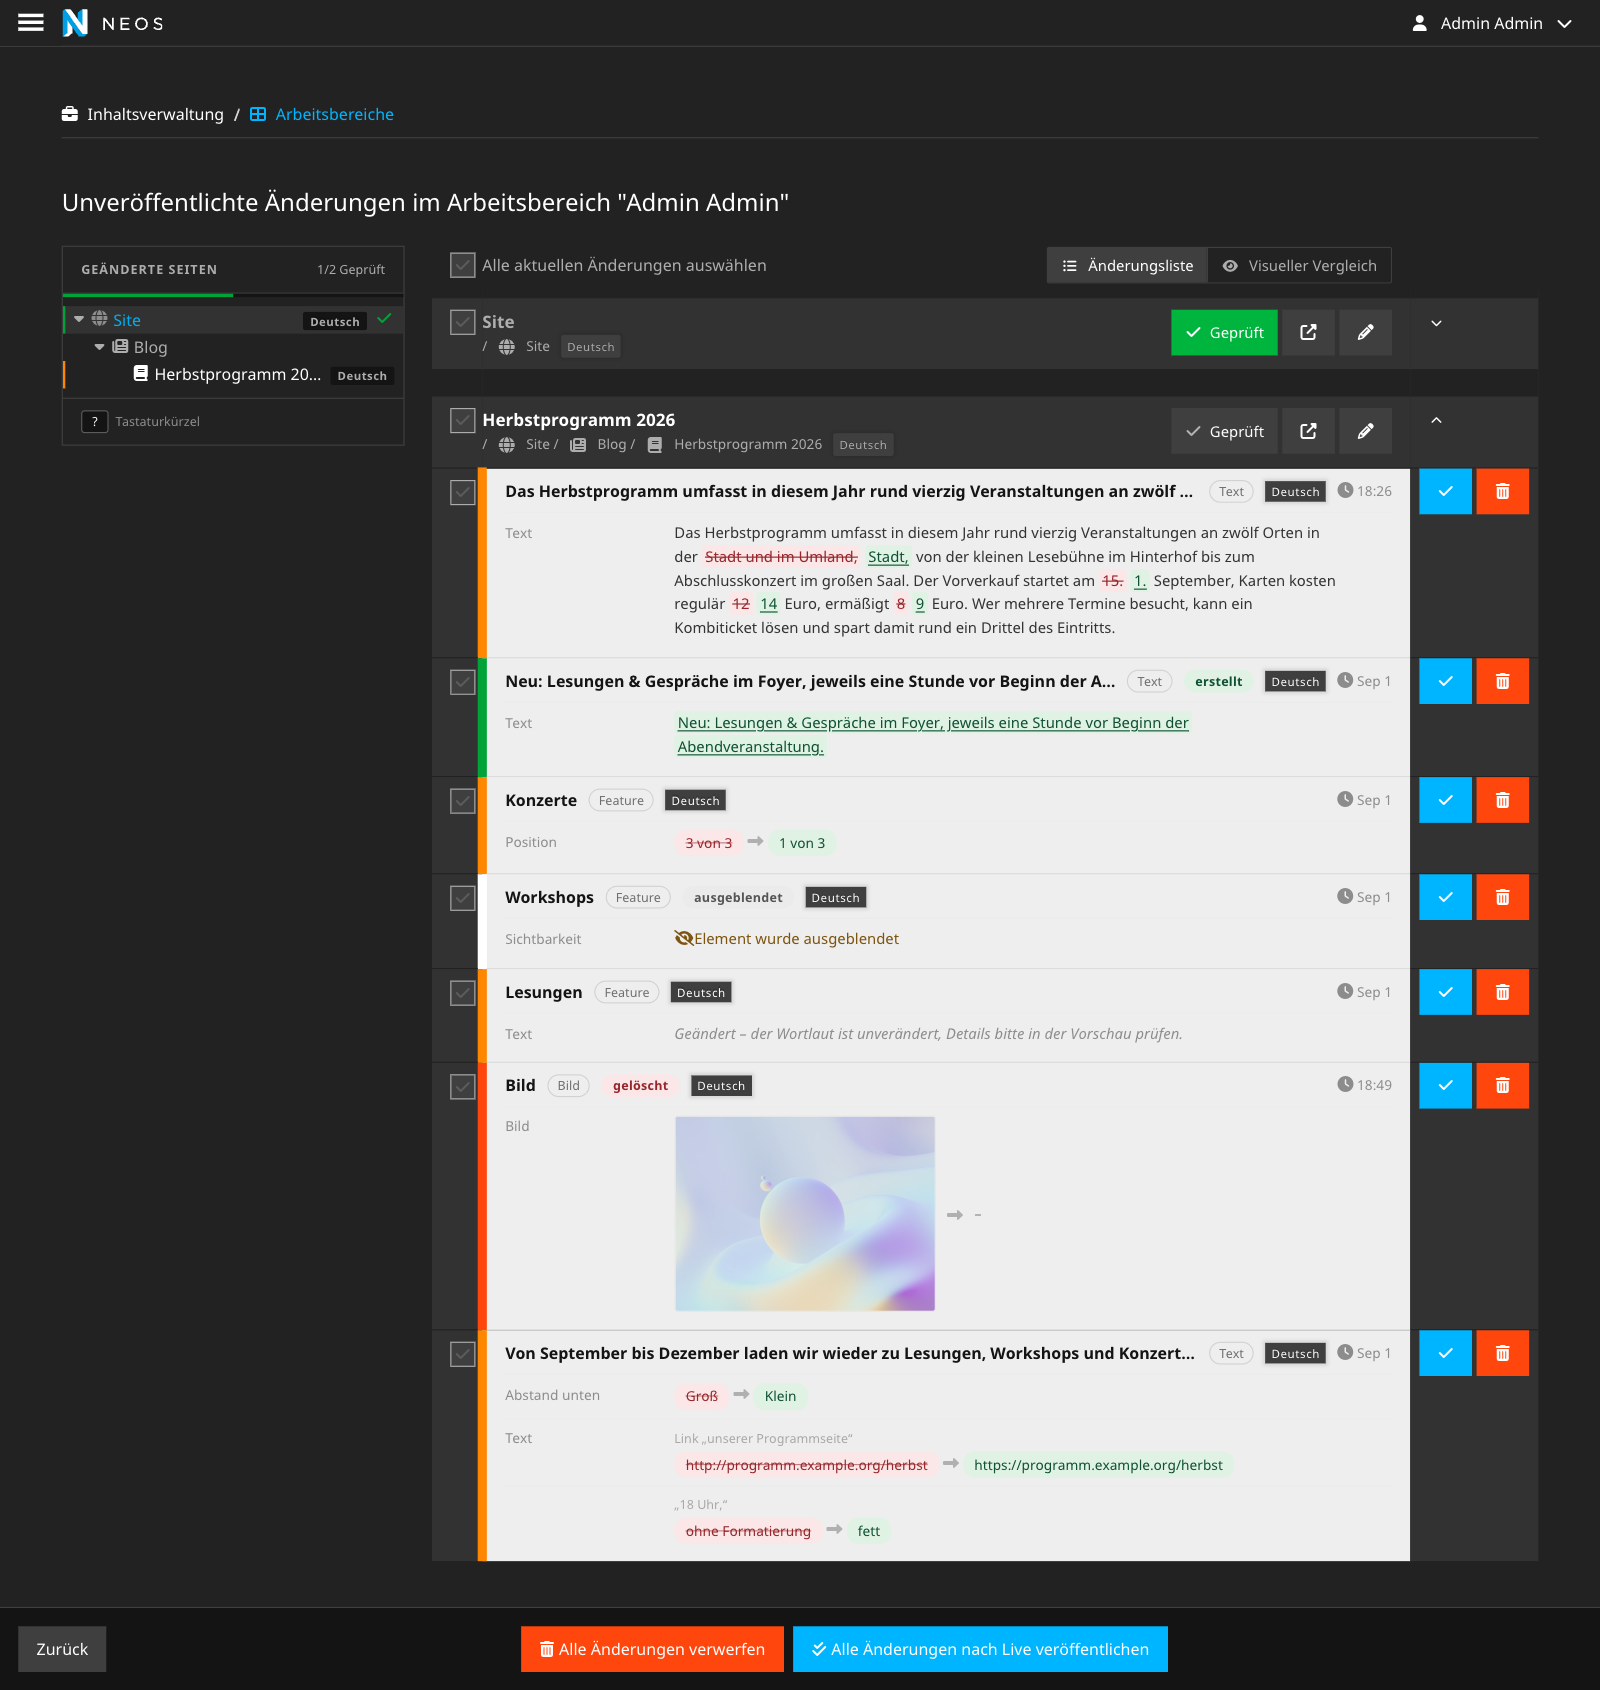
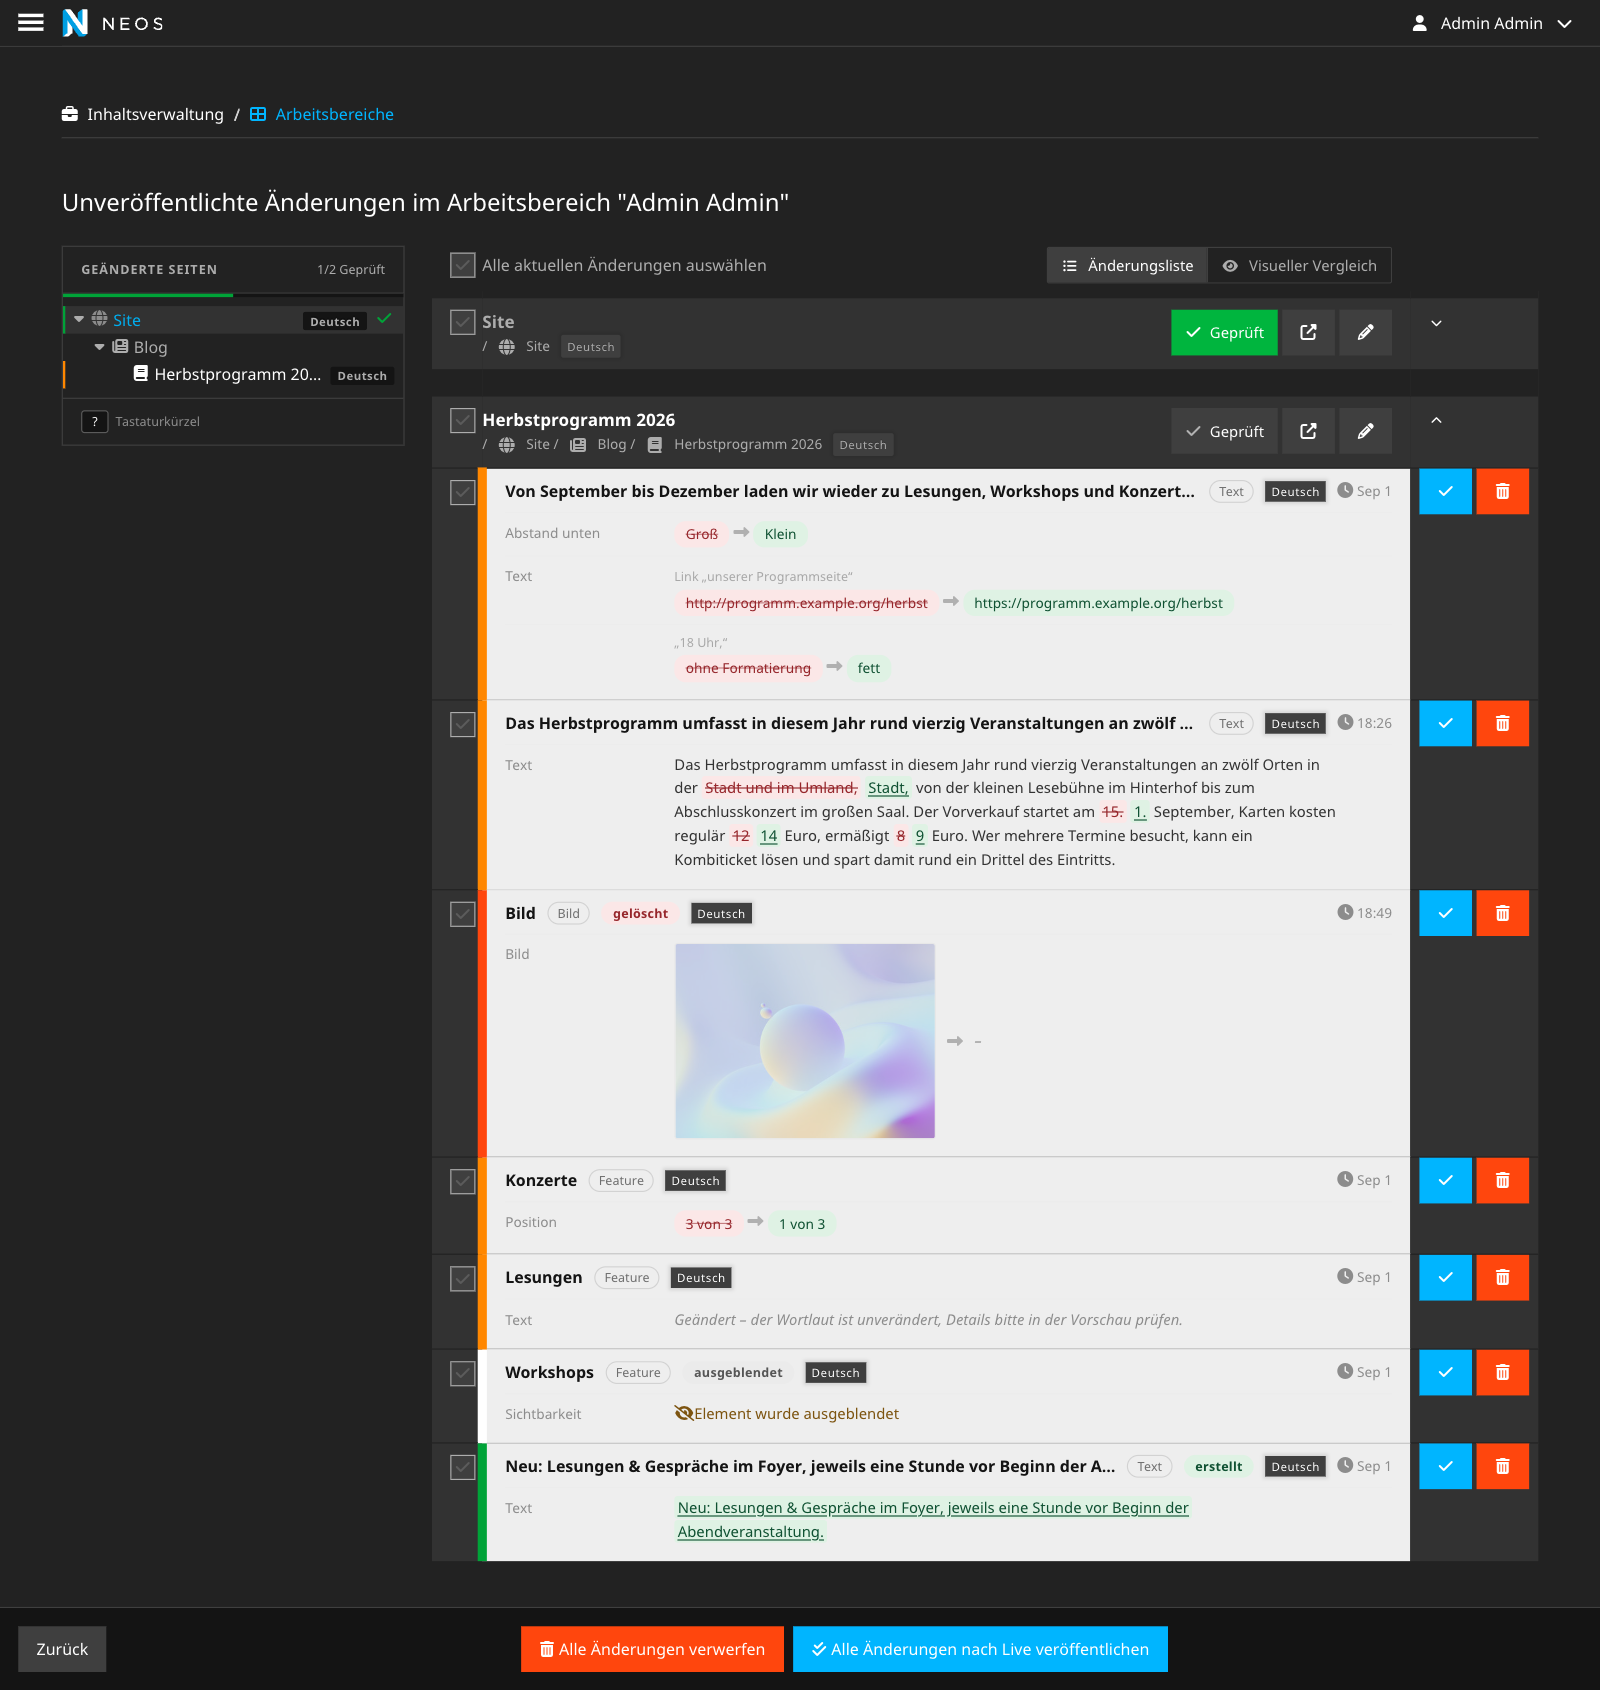
TASK: List the changes of a page in page order
The core lists a document's changes as the repository returns them,
which is roughly the order they were made in, so the first element on a
page could appear last in the review. The changes now follow the page:
sorted by the sorting indices from the document down to the node, with
a container ahead of the elements inside it.

diff --git a/Classes/Controller/Module/Management/WorkspacesController.php b/Classes/Controller/Module/Management/WorkspacesController.php
@@ -164,7 +164,8 @@ class WorkspacesController extends NeosWorkspacesController
     /**
      * Adds, on top of the site changes computed by the core controller, the
      * URIs the visual compare renders each document from and a "pages" list
-     * per dimension that orders the changed documents like the page tree.
+     * per dimension that orders the changed documents like the page tree, and
+     * puts the changes of each document into page order.
      *
      * @param Workspace $selectedWorkspace
      * @return array
@@ -175,6 +176,7 @@ class WorkspacesController extends NeosWorkspacesController
         foreach ($siteChanges as $siteKey => $site) {
             foreach ($site['documents'] as $dimension => $documents) {
                 foreach ($documents as $documentPath => $document) {
+                    $document['changes'] = $this->sortChangesInPageOrder($document['changes'] ?? [], $document['documentNode']);
                     $documents[$documentPath] = $this->addPreviewUris($document);
                 }
                 $siteChanges[$siteKey]['documents'][$dimension] = $documents;
@@ -182,6 +184,62 @@ class WorkspacesController extends NeosWorkspacesController
             }
         }
         return $siteChanges;
+    }
+
+    /**
+     * The core lists the changes of a document in the order the repository
+     * returns them, which is roughly the order they were made in. Reviewers
+     * read a page top to bottom, so the changes follow the page instead:
+     * sorted by the sorting indices from the document down to the node, an
+     * ancestor ahead of its descendants. Keys (relative paths) are kept.
+     *
+     * @param array<string, array> $changes
+     */
+    protected function sortChangesInPageOrder(array $changes, NodeInterface $documentNode): array
+    {
+        $positions = [];
+        foreach ($changes as $relativePath => $change) {
+            $positions[$relativePath] = $this->pagePositionOf($change['node'], $documentNode);
+        }
+        uksort($changes, function ($a, $b) use ($positions): int {
+            return $this->comparePagePositions($positions[$a], $positions[$b]) ?: strcmp((string)$a, (string)$b);
+        });
+        return $changes;
+    }
+
+    /**
+     * Lexicographic comparison of two index lists. PHP's own array comparison
+     * ranks by length first, which would put a deep element behind every
+     * shallow one instead of below its own container.
+     *
+     * @param int[] $a
+     * @param int[] $b
+     */
+    protected function comparePagePositions(array $a, array $b): int
+    {
+        $length = min(count($a), count($b));
+        for ($i = 0; $i < $length; $i++) {
+            if ($a[$i] !== $b[$i]) {
+                return $a[$i] <=> $b[$i];
+            }
+        }
+        return count($a) <=> count($b);
+    }
+
+    /**
+     * The sorting indices of the nodes between the document and the given
+     * node, top-down; comparing two such lists element by element yields the
+     * order in which the nodes appear on the page.
+     *
+     * @return int[]
+     */
+    protected function pagePositionOf(NodeInterface $node, NodeInterface $documentNode): array
+    {
+        $indices = [];
+        for ($current = $node; $current !== null && $current->getPath() !== $documentNode->getPath(); $current = $current->getParent()) {
+            $indices[] = $current->getIndex();
+        }
+        return array_reverse($indices);
     }
 
     /**

diff --git a/Tests/Unit/Controller/Module/Management/WorkspacesControllerTest.php b/Tests/Unit/Controller/Module/Management/WorkspacesControllerTest.php
@@ -662,6 +662,42 @@ class WorkspacesControllerTest extends UnitTestCase
     }
 
     /**
+     * Changes are listed as their elements follow on the page: by sorting
+     * index below the document, a container ahead of the elements inside it,
+     * regardless of the order the repository returned them in.
+     *
+     * @test
+     */
+    public function sortChangesInPageOrderFollowsTheSortingIndicesBelowTheDocument(): void
+    {
+        $document = $this->createPositionedNode('/sites/site/page', 0, null);
+        $main = $this->createPositionedNode('/sites/site/page/main', 100, $document);
+        $first = $this->createPositionedNode('/sites/site/page/main/first', 100, $main);
+        $container = $this->createPositionedNode('/sites/site/page/main/container', 200, $main);
+        $inner = $this->createPositionedNode('/sites/site/page/main/container/items/inner', 100, $this->createPositionedNode('/sites/site/page/main/container/items', 100, $container));
+        $last = $this->createPositionedNode('/sites/site/page/main/last', 300, $main);
+        $changes = [
+            'main/last' => ['node' => $last],
+            'main/container/items/inner' => ['node' => $inner],
+            'main/first' => ['node' => $first],
+            'main/container' => ['node' => $container],
+        ];
+
+        $sorted = $this->createController(null)->sortChangesInPageOrderForTest($changes, $document);
+
+        self::assertSame(['main/first', 'main/container', 'main/container/items/inner', 'main/last'], array_keys($sorted));
+    }
+
+    private function createPositionedNode(string $path, int $index, ?NodeInterface $parent): NodeInterface
+    {
+        $node = $this->createMock(NodeInterface::class);
+        $node->method('getPath')->willReturn($path);
+        $node->method('getIndex')->willReturn($index);
+        $node->method('getParent')->willReturn($parent);
+        return $node;
+    }
+
+    /**
      * The sidebar shows the changed pages as a tree: the unchanged "blog" page
      * between the site and its changed post is listed as an ancestor, and a
      * post follows its parent even when a sibling like "blog-archive" sorts
@@ -906,6 +942,11 @@ class WorkspacesControllerTest extends UnitTestCase
             public function renderContentChangesForTest(NodeInterface $changedNode): array
             {
                 return $this->renderContentChanges($changedNode);
+            }
+
+            public function sortChangesInPageOrderForTest(array $changes, NodeInterface $documentNode): array
+            {
+                return $this->sortChangesInPageOrder($changes, $documentNode);
             }
 
             public function computePageTreeForTest(array $documents): array
